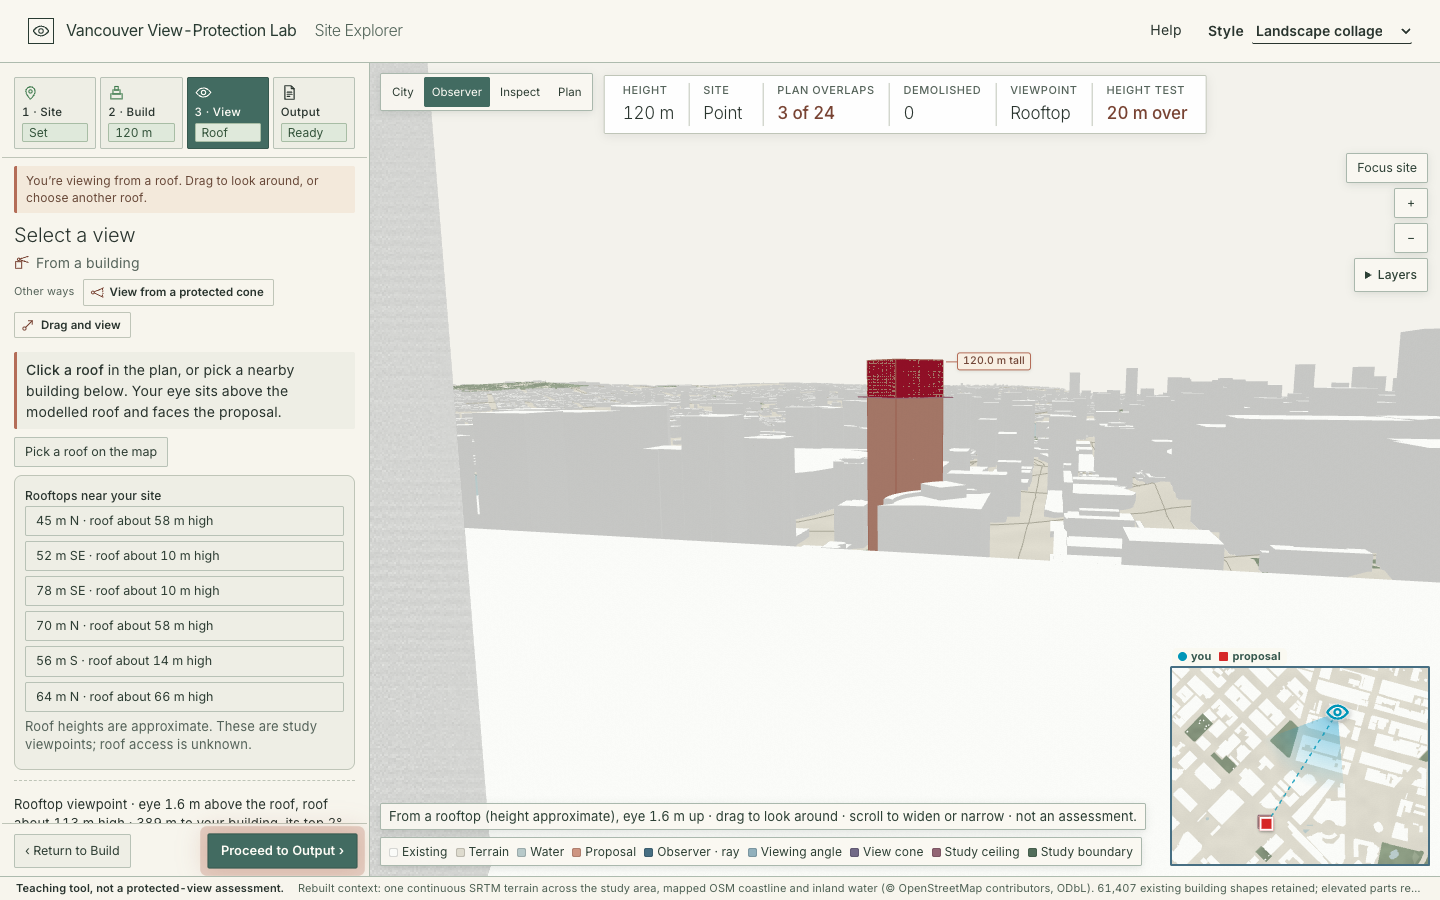
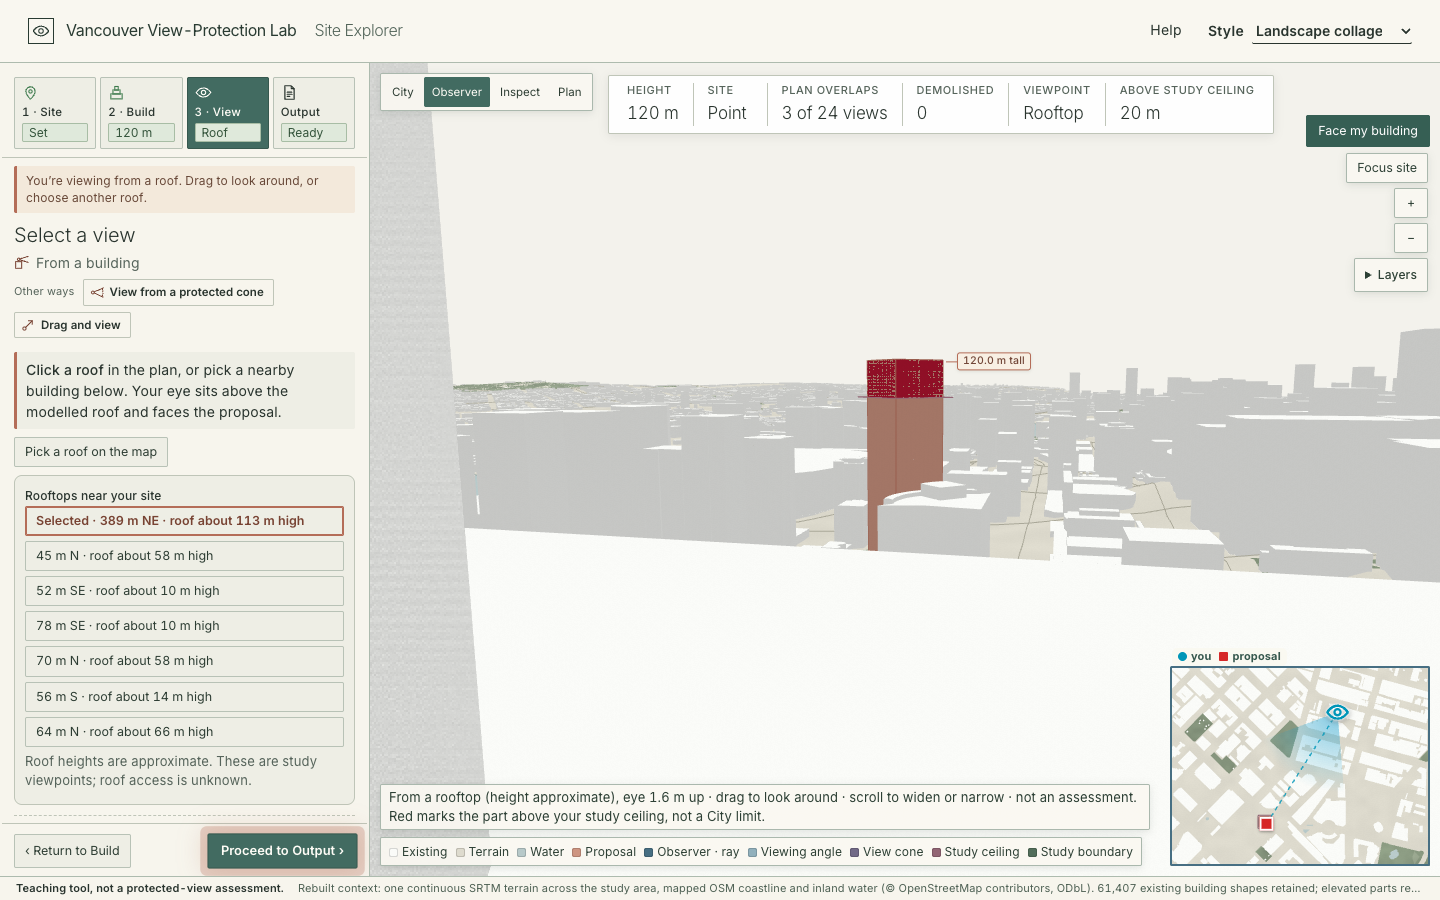
v09.10: camera refits after big height changes; final demo GIF and screenshot

diff --git a/explorer/explorer.js b/explorer/explorer.js
@@ -784,6 +784,10 @@ function restoreBuildings() { const replacing = state.flow.methods.site === 'rep
   if (replacing) { resetStage('site'); applyFlowTool(); } else { state.removed = []; state.multiSel = []; state.showExisting = false; }
   state.clearOverlaps = false; refreshPanels(); requestRender(); writeHash();
   setHint(replacing ? 'Buildings restored and automatic demolition is off. Choose a building or a group again to set the site.' : 'All context buildings restored, and automatic demolition is off (Build step). Your study boundary and proposal remain.'); }
+// in Build, once the height stops changing, the city view refits if the tower's top has left the frame
+let refitTimer = null, refitTop = null;
+function scheduleRefit() { const P = proposalBox(); if (!P || state.flow.stage !== 'build' || state.mode !== 'overview' || !proposalShown()) return; if (refitTop !== null && Math.abs(P.top - refitTop) < 0.01) return; refitTop = P.top; clearTimeout(refitTimer);
+  refitTimer = setTimeout(() => { const Q = proposalBox(); if (!Q || !lastCam || state.mode !== 'overview' || state.flow.stage !== 'build') return; const q = project(lastCam.vp, [Q.cx, Q.cy, Q.top]); if (q[3] <= 0 || q[1] > 0.9 || Math.abs(q[0]) > 1) focusSite(); }, 700); }
 function focusSite() {
   if (!state.site) return false; const m = state.boundary.length >= 3 ? SiteGeometry.metrics(state.boundary) : null;
   const span = m ? Math.max(m.bounds[2]-m.bounds[0], m.bounds[3]-m.bounds[1]) : 120;
@@ -1178,7 +1182,7 @@ function refreshPanels() { updateCleared(); refreshStudyUI(); const P = proposal
     $('cleared-text').textContent = !state.clearOverlaps ? 'Buildings your proposal overlaps are kept. Tick the box to treat them as demolished.' : `${state.cleared.length} existing building${state.cleared.length === 1 ? '' : 's'} under your proposal ${state.cleared.length === 1 ? 'is' : 'are'} shown as demolished to make room. This is a study assumption, not an approval.`; }
   const bi = $('building-info'); if (state.selected !== null && assets.ready) { const c = (state.selectedExt ? assets.extIndex : assets.index).columns, i = state.selected, b = c.bbox[i]; bi.textContent = `${state.selectedExt ? 'Extension building (current OSM, © OpenStreetMap contributors)' : 'Existing building (supplied model)'} osm_id ${c.osm_id[i]} · ${c.osm_type[i] || '—'} · height_m ${c.height_m[i] === null ? '—' : c.height_m[i]} (${HS[c.height_source[i]]}) · ≈ ${fmt(b[3] - b[0], 0)} × ${fmt(b[4] - b[1], 0)} m · top z ${fmt(b[5])} m. Model bounding dimensions; not a parcel survey.`; bi.classList.remove('hidden'); }
   else bi.classList.add('hidden');
-  refreshLiveStudy(); $('step-status').textContent = stepStatus(); refreshFlowUI(); refreshCaption();
+  refreshLiveStudy(); $('step-status').textContent = stepStatus(); refreshFlowUI(); refreshCaption(); scheduleRefit();
   $('tech-json').textContent = JSON.stringify(technicalState(), null, 1); if (state.flow.stage === 'output') { renderReport(); window.__report?.renderBuilder(); } }
 function technicalState() { const m = assets.manifest; const P = proposalBox(); const c = selectedCone();
   return { schema: 'vancouver-site-study/1', name: state.studyName, resume_hash: serializeHash(), saved_at: new Date().toISOString(), imported_geometry_included: false, label: 'VISUAL EXPLORATION AND TEACHING ONLY — NOT A PROTECTED-VIEW ASSESSMENT', regulatory_applicability: 'NOT ASSESSED', coordinates: assets.unified ? 'model XY metres, Z up; rebuilt SRTM ground, building bases shifted vertically (see context_rebuild)' : 'model metres, Z up, untransformed (see source.display_transform)',

diff --git a/explorer/index.html b/explorer/index.html
@@ -107,7 +107,7 @@
       <div class="method-chooser" data-chooser="site">
         <p class="chooser-q">How do you want to choose where your building goes?</p>
         <div class="method-grid">
-          <button class="method-card" type="button" data-stage="site" data-method="point"><svg class="ico" aria-hidden="true"><use href="#i-pin"/></svg><b>Open spot on the plan</b><span>Find the area, then pick a spot or draw a boundary.</span></button>
+          <button class="method-card" type="button" data-stage="site" data-method="point"><svg class="ico" aria-hidden="true"><use href="#i-pin"/></svg><b>Open spot on the plan</b><span>Search an address or neighbourhood, then pick a spot or draw a boundary.</span></button>
           <button class="method-card" type="button" data-stage="site" data-method="replace"><svg class="ico" aria-hidden="true"><use href="#i-replace"/></svg><b>Replace a building</b><span>Pick one existing building; its outline (approximate) becomes your site.</span></button>
           <button class="method-card" type="button" data-stage="site" data-method="multi"><svg class="ico" aria-hidden="true"><use href="#i-multi"/></svg><b>Replace several buildings</b><span>Pick a group of buildings; their combined area becomes your site.</span></button>
         </div>
